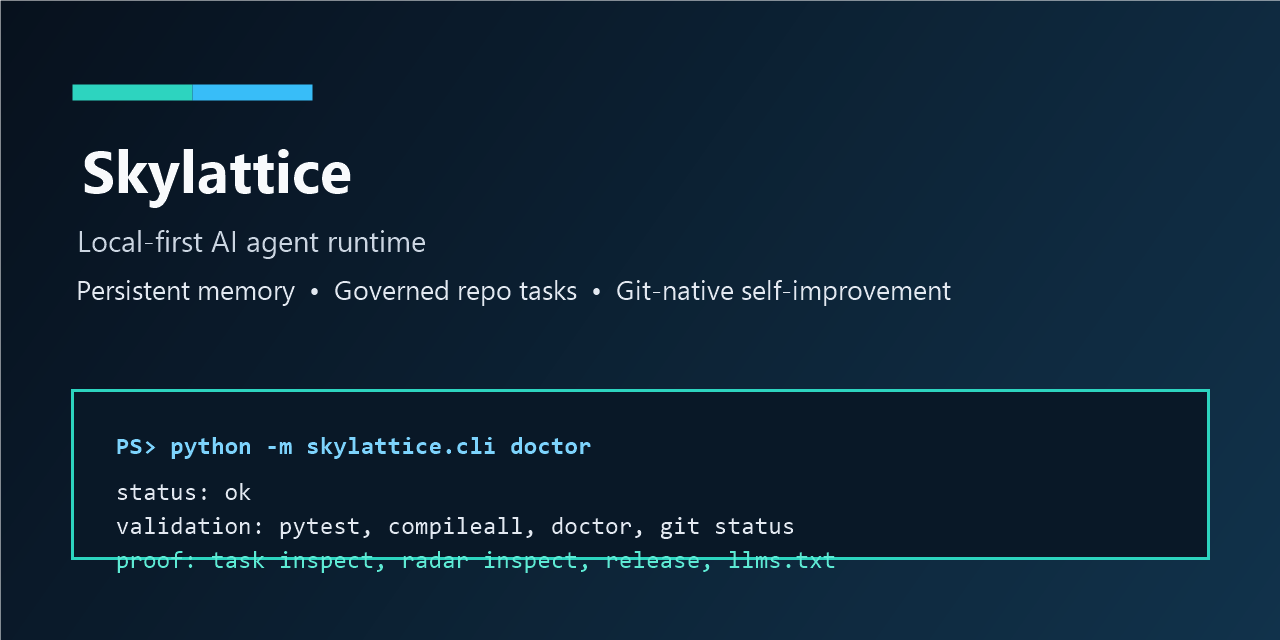
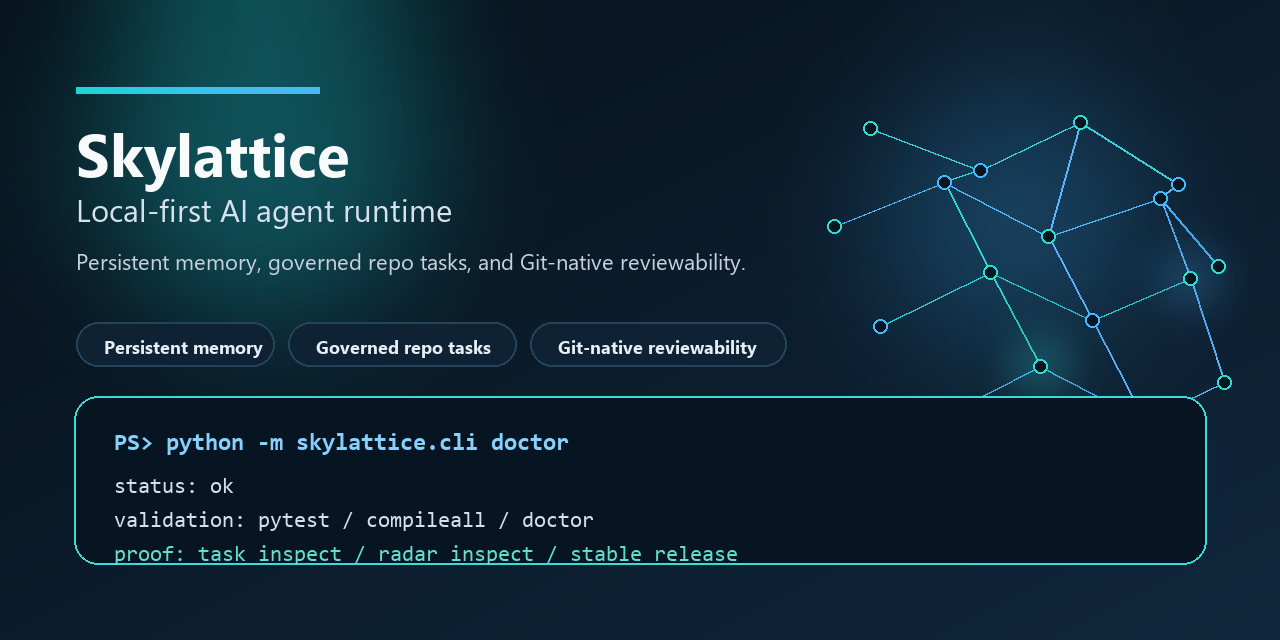
docs: refresh cover surfaces
Refresh the GitHub social preview and README/Pages hero with a premium systems cover.

diff --git a/tests/test_public_readiness.py b/tests/test_public_readiness.py
@@ -108,6 +108,7 @@ def test_public_engineering_baseline_files_exist() -> None:
         "docs/assets/doctor-snapshot.svg",
         "docs/assets/task-run-snapshot.svg",
         "docs/assets/runtime-architecture.svg",
+        "docs/assets/cover-hero.svg",
         "docs/assets/social-preview.svg",
         "docs/assets/social-preview.png",
         "docs/assets/terminal-demo.svg",
@@ -138,6 +139,7 @@ def test_public_positioning_surfaces_are_present() -> None:
     pyproject = _read_text("pyproject.toml")
     for phrase in [
         "Why Star Skylattice",
+        "Visual Proof",
         "5-Minute No-Credential Quick Start",
         "Token-Enabled Workflow",
         "Sample Outputs",
@@ -147,6 +149,7 @@ def test_public_positioning_surfaces_are_present() -> None:
         "stable non-pre-release public baseline",
         "python -m mkdocs build --strict",
         "homepageUrl",
+        "docs/assets/cover-hero.svg",
     ]:
         assert phrase in readme
     assert 'version = "0.2.2"' in pyproject

diff --git a/README.md b/README.md
@@ -8,17 +8,13 @@ Skylattice is a local-first AI agent runtime for builders who want persistent me
 
 It is still early, but it now ships a stable non-pre-release public baseline: you can verify the local runtime with zero credentials, inspect representative task and radar outputs, and see how memory, governance, and Git history fit together before you trust it with real work.
 
+![Skylattice hero](docs/assets/cover-hero.svg)
+
 Public surfaces:
 
 - docs and AI-friendly landing pages: [yscjrh.github.io/skylattice](https://yscjrh.github.io/skylattice/)
 - GitHub repository and release history: [YSCJRH/skylattice](https://github.com/YSCJRH/skylattice)
 - latest stable release: [v0.2.2 Stable](docs/releases/v0-2-2.md)
-
-| Runtime health | Task and radar proof |
-| --- | --- |
-| ![Doctor snapshot](docs/assets/doctor-snapshot.svg) | ![Task and radar snapshot](docs/assets/task-run-snapshot.svg) |
-
-![Runtime architecture](docs/assets/runtime-architecture.svg)
 
 ## Why Star Skylattice
 
@@ -35,6 +31,14 @@ Public surfaces:
 - append-only ledger and run inspection for task and radar workflows
 - read-only FastAPI endpoints for runtime, memory, and radar inspection
 - Windows-first CI driven by tracked validation commands in `configs/task/validation.yaml`
+
+## Visual Proof
+
+| Runtime health | Task and radar proof |
+| --- | --- |
+| ![Doctor snapshot](docs/assets/doctor-snapshot.svg) | ![Task and radar snapshot](docs/assets/task-run-snapshot.svg) |
+
+![Runtime architecture](docs/assets/runtime-architecture.svg)
 
 ## 5-Minute No-Credential Quick Start
 

diff --git a/docs/tasks/cover-refresh.md b/docs/tasks/cover-refresh.md
@@ -1,0 +1,30 @@
+# Cover Refresh
+
+## Intent
+
+- redesign the GitHub social preview and the README/Pages hero in a premium systems direction
+- success means the repo first screen feels more memorable, the social preview reads at thumbnail size, and the new assets are tracked in both the repo and Figma
+
+## Constraints
+
+- tracked artifacts to edit: `README.md`, `docs/index.md`, `docs/assets/social-preview.svg`, `docs/assets/social-preview.png`, `docs/assets/cover-hero.svg`, `tests/test_public_readiness.py`
+- local-only artifacts expected to change: local Figma draft file `Skylattice Cover Refresh`
+- explicit non-goals: no product copy rewrite beyond first-screen packaging, no runtime behavior changes, no hidden repo setting changes that cannot be represented in tracked assets
+
+## Affected Subsystems
+
+- docs
+- public surfaces
+- discoverability
+
+## Verification
+
+- `python -m pytest tests/test_public_readiness.py -q`
+- `python -m mkdocs build --strict`
+- manual check of README first screen and Pages homepage hero
+- confirm `docs/assets/social-preview.png` is under 1 MB and sized for GitHub social preview
+
+## Notes
+
+- use one shared visual system across the social preview and README hero
+- keep the design grounded in local-first, governed, Git-native positioning rather than generic AI product aesthetics

diff --git a/docs/index.md b/docs/index.md
@@ -26,6 +26,8 @@ Skylattice is a local-first AI agent runtime for builders who want persistent me
 
 If you are looking for an auditable agent framework rather than a chat wrapper, Skylattice gives you a compact runtime with local state, clear approval boundaries, and a stable public release surface.
 
+![Skylattice hero](assets/cover-hero.svg)
+
 ## Key Takeaways
 
 - Skylattice is a persistent memory agent runtime, not a hosted assistant or generic coding bot.
